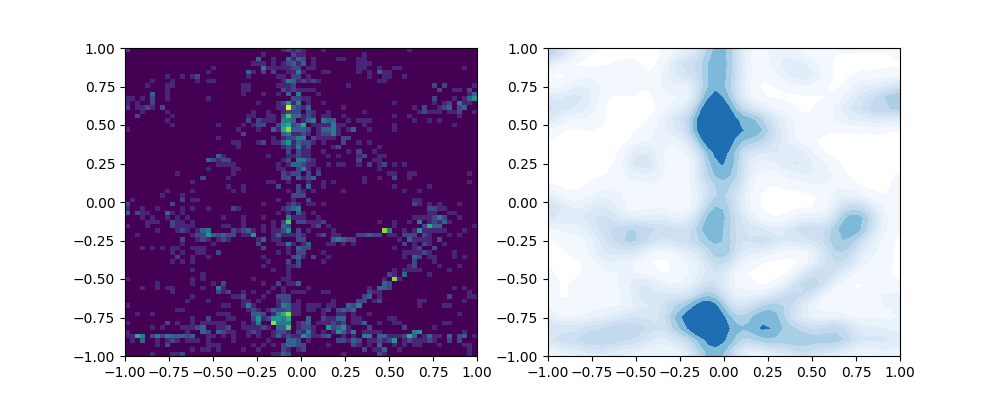
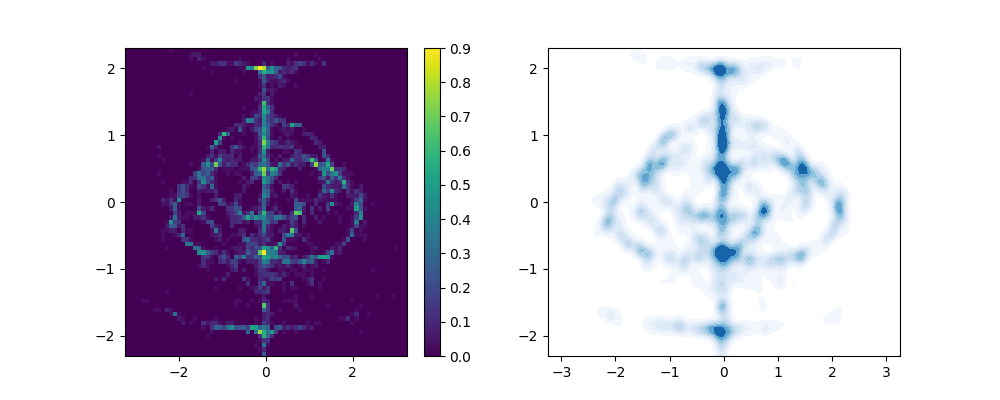
generic commit

diff --git a/scripts/transport/kvae_diffusion.py b/scripts/transport/kvae_diffusion.py
@@ -774,9 +774,9 @@ def vl_exp(N=4000, Yd=18, normal=True, exp_name='kvl_exp', n_transports=100,  N_
 
 def run():
     target_gen = lambda N: normalize(sample_elden_ring(N))
-    two_d_exp(ref_gen=sample_normal, target_gen=target_gen, N=5000, exp_name='elden_diff', n_transports=70,
+    two_d_exp(ref_gen=sample_normal, target_gen=target_gen, N=10000, exp_name='elden_diff', n_transports=70,
               slice_vals=[], plt_range= [[-3.25,3.25],[-2.3,2.3]], slice_range=[-1.5, 1.5], vmax= .9, skip_idx=1,
-              N_plot=5000, plot_steps = False)
+              N_plot=5000, plot_steps = False, bins= 100)
 
 
     #vl_exp(N = 5000, n_transports=70, N_plot= 5000)
